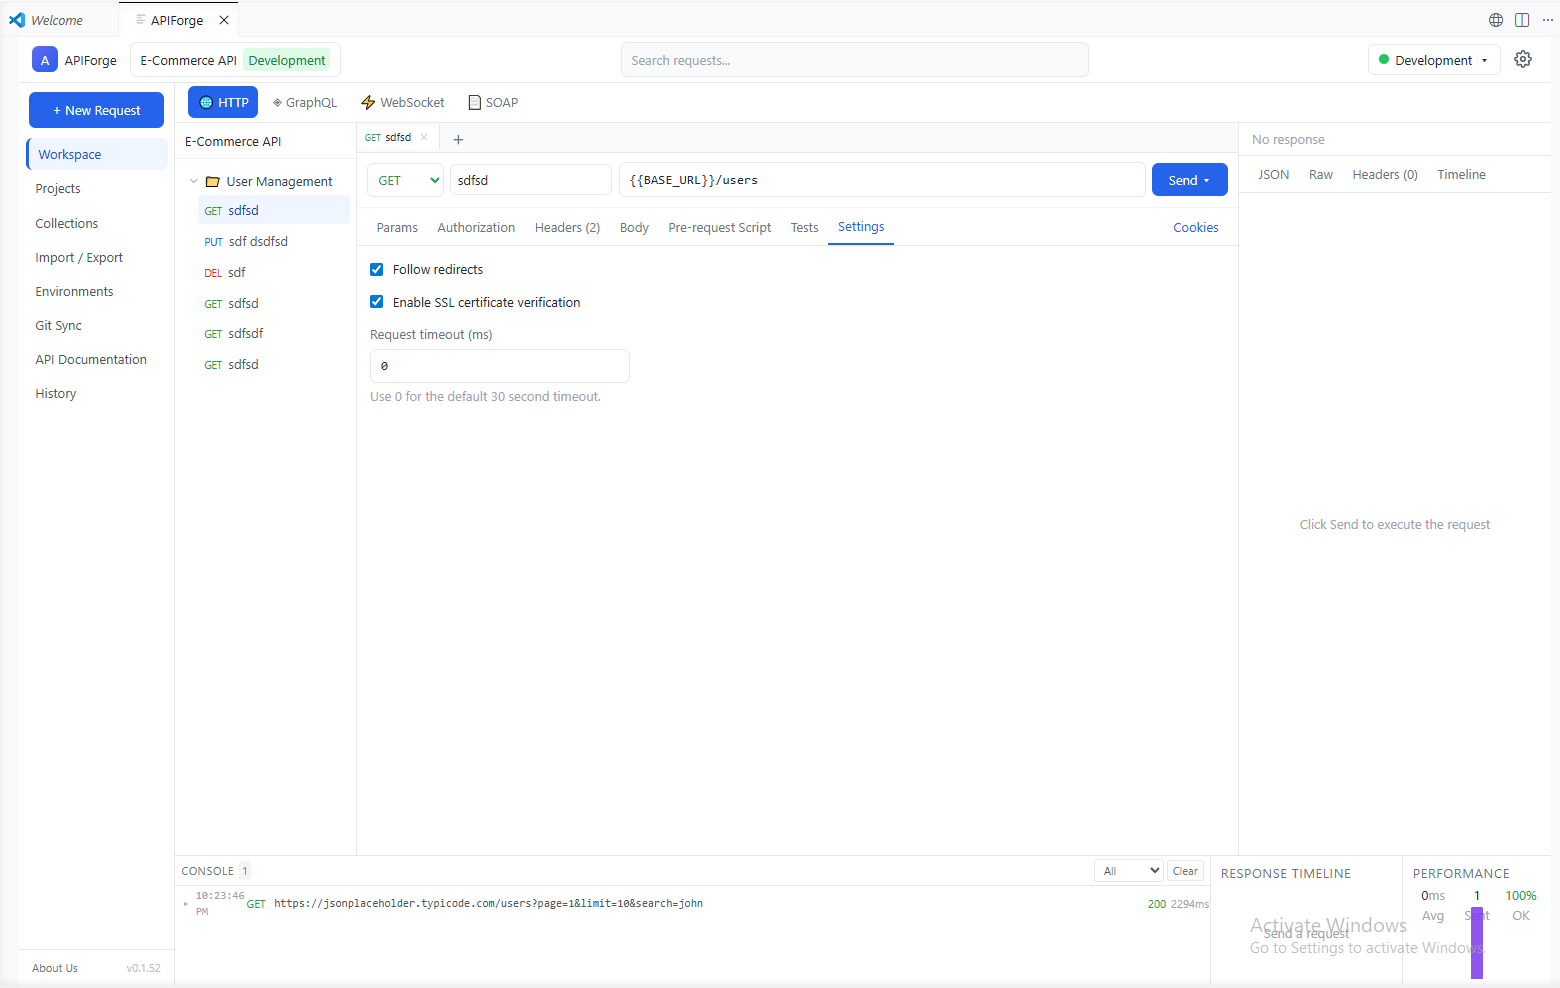
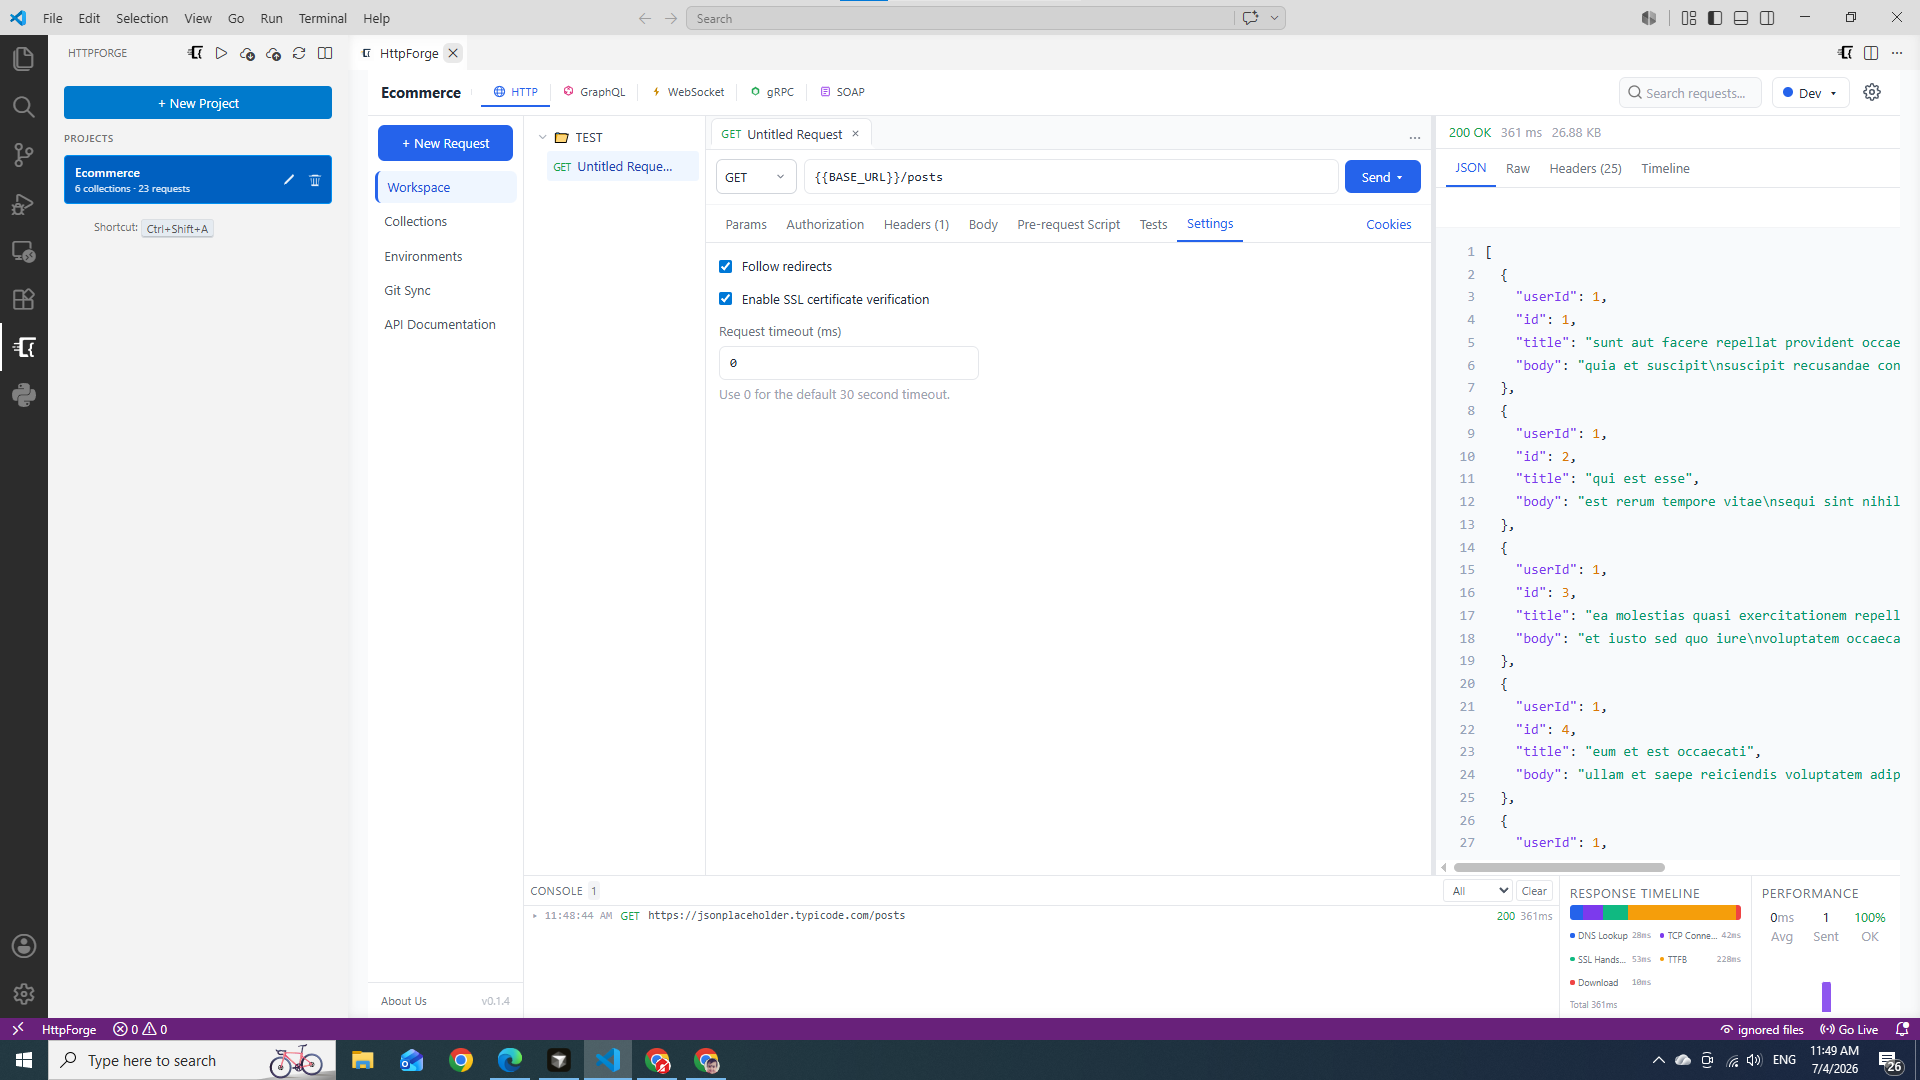
updated

diff --git a/media/styles.css b/media/styles.css
@@ -434,6 +434,7 @@ code,
   --chrome-tab-strip: #f9fafb;
   --chrome-tab-inactive: #f3f4f6;
   --chrome-tab-active: #ffffff;
+  --chrome-tab-border: #e5e7eb;
   --chrome-tab-text: #374151;
   --chrome-tab-text-muted: #6b7280;
   --chrome-tab-hover: #e5e7eb;
@@ -453,6 +454,7 @@ code,
   --chrome-tab-strip: var(--hf-bg-panel, #121212);
   --chrome-tab-inactive: var(--hf-bg-input, #222223);
   --chrome-tab-active: var(--hf-bg, #141415);
+  --chrome-tab-border: var(--hf-border, #2a2a2b);
   --chrome-tab-text: var(--hf-fg, #e4e4e4);
   --chrome-tab-text-muted: var(--hf-fg-muted, #9d9d9d);
   --chrome-tab-hover: var(--hf-bg-hover, #252526);
@@ -462,6 +464,7 @@ code,
 .request-tabs-scroll {
   display: flex;
   align-items: flex-end;
+  gap: 0.35rem;
   flex: 1;
   min-width: 0;
   overflow-x: auto;
@@ -481,7 +484,7 @@ code,
   padding: 0 0.65rem 0 0.75rem;
   background: var(--chrome-tab-inactive);
   color: var(--chrome-tab-text-muted);
-  border: 1px solid transparent;
+  border: 1px solid var(--chrome-tab-border);
   border-bottom: none;
   border-radius: 0.5rem 0.5rem 0 0;
   cursor: pointer;

diff --git a/media/main.js b/media/main.js
@@ -3825,7 +3825,7 @@
             </div>
 
             <!-- Request Editor -->
-            <div class="flex-1 flex flex-col min-w-0 bg-white dark:bg-gray-900">
+            <div class="flex-1 flex flex-col min-w-[725px] bg-white dark:bg-gray-900">
               <div class="request-tabs-bar shrink-0">
                 <div class="request-tabs-scroll">${tabsHtml}</div>
                 <div class="request-tabs-actions">